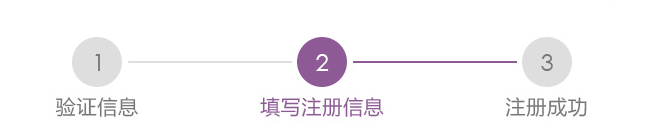
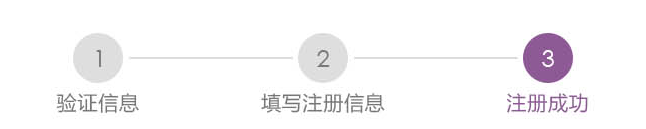
regist html

diff --git a/static/partials/regist/regist_invest_info.html b/static/partials/regist/regist_invest_info.html
@@ -1,52 +1,52 @@
-<div id="container" ng-controller="RegistStartupCtrl">
+<div id="container" ng-controller="RegistStartupInfoCtrl">
 	<div class="tab-bar">
 	    <div class="width-limited">
 	      <a href="/regist_startup"><div class="tab tab-active">我是创业者</div></a>
 	      <a href="/regist_invest_auth"><div class="tab">我是投资人</div>
 	      <img class="xiaojiao" src="static/img/index/jiao.png"></a>
 	    </div>
-	 </div>
-	 <img src="static/img/regist/start-up-1.png" id="headimg">
-	 <div class="row" id="bg_reg">
-		<div class="col-md-6" id="startup_reg">
+	  </div>
+	<div>
+	<img src="static/img/regist/invest-2.png" id="headimg">
+	<div class="row" id="bg_reg">
+		<div class="col-md-6" id="invest_reg">
 		</div>
 		<div class="col-md-6" >
-			<form class="ui form segment" ng-submit="startup_regist()" id="login">
+			<form class="ui form segment" ng-submit="login_user()" id="login">
 				<div class="form-group">  
 				    <div class="input-group">
 				      <div class="input-group-addon"><span class="glyphicon glyphicon-envelope" aria-hidden="true"></span></div>
-				      <input type="text" class="form-control" id="username" placeholder="用户名" ng-model="startup_regist.username" required>
-				    </div>
-				</div>
-				<div class="form-group">  
-				    <div class="input-group">
-				      <div class="input-group-addon"><span class="glyphicon glyphicon-envelope" aria-hidden="true"></span></div>
-				      <input type="text" class="form-control" id="realname" placeholder="真实姓名" ng-model="startup_regist.realname" required>
+				      <input type="text" class="form-control" id="email" placeholder="邮箱" ng-model="invest.email" required>
 				    </div>
 				</div>
 				<div class="form-group">  
 				    <div class="input-group">
 				      <div class="input-group-addon"><span class="glyphicon glyphicon-lock" aria-hidden="true"></span></div>
-				      <input type="text" class="form-control" id="password" placeholder="密码" ng-model="startup_regist.password" required>	
+				      <input type="text" class="form-control" id="password" placeholder="真实姓名" ng-model="invest.realname" required>	
 				    </div>
 				</div>
-
 				<div class="form-group">  
 				    <div class="input-group">
 				      <div class="input-group-addon"><span class="glyphicon glyphicon-lock" aria-hidden="true"></span></div>
-				      <input type="text" class="form-control" id="password" placeholder="再次输入密码" ng-model="startup_regist.repassword" required>	
+				      <input type="text" class="form-control" id="phonenumber" placeholder="手机号" ng-model="invest.phonenumber" required>	
 				    </div>
 				</div>
-
 				<div class="form-group">  
 				    <div class="input-group">
 				      <div class="input-group-addon"><span class="glyphicon glyphicon-lock" aria-hidden="true"></span></div>
-				      <input type="text" class="form-control" id="password" placeholder="验证码" ng-model="startup_regist.authcode" required>	
+				      <input type="text" class="form-control" id="password" placeholder="输入密码" ng-model="invest.password" required>	
+				    </div>
+				</div>
+				<div class="form-group">  
+				    <div class="input-group">
+				      <div class="input-group-addon"><span class="glyphicon glyphicon-lock" aria-hidden="true"></span></div>
+				      <input type="text" class="form-control" id="repassword" placeholder="再次输入密码" ng-model="invest.repassword" required>	
 				    </div>
 				</div>
 				<error-message error="error"></error-message>
-	        	<input type="submit" value="注册" class="button" id="regist_button">
+	        	<input type="submit" value="验证信息" class="button" id="login_button">
 	        	<br/>
+	        	<span>已有账号？请点击</span><a href="/login">登录</a>
 	        </form>
 		</div>
 	</div>

diff --git a/static/partials/regist/regist_invest_finish.html b/static/partials/regist/regist_invest_finish.html
@@ -1,35 +1,32 @@
-<div id="container" ng-controller="RegistInvestCtrl">
+<div id="container" ng-controller="RegistStartupFinishCtrl">
 	<div class="tab-bar">
 	    <div class="width-limited">
 	      <a href="/regist_startup"><div class="tab tab-active">我是创业者</div></a>
-	      <a href="/regist_invest"><div class="tab">我是投资人</div>
+	      <a href="/regist_invest_auth"><div class="tab">我是投资人</div>
 	      <img class="xiaojiao" src="static/img/index/jiao.png"></a>
 	    </div>
 	  </div>
 	<div>
-	<img src="static/img/regist/invest-1.png" id="headimg">
+	<img src="static/img/regist/invest-3.png" id="headimg">
 	<div class="row" id="bg_reg">
-		<div class="col-md-6" id="invest_reg">
+		<div class="col-md-6" id="invest_reg_finish">
 		</div>
-		<div class="col-md-6" >
-			<form class="ui form segment" ng-submit="login_user()" id="login">
-				<div class="form-group">  
-				    <div class="input-group">
-				      <div class="input-group-addon"><span class="glyphicon glyphicon-envelope" aria-hidden="true"></span></div>
-				      <input type="text" class="form-control" id="username" placeholder="输入用户名" ng-model="login_info.username" required>
-				    </div>
-				</div>
-				<div class="form-group">  
-				    <div class="input-group">
-				      <div class="input-group-addon"><span class="glyphicon glyphicon-lock" aria-hidden="true"></span></div>
-				      <input type="text" class="form-control" id="password" placeholder="输入密码" ng-model="login_info.password" required>	
-				    </div>
-				</div>
-				<error-message error="error"></error-message>
-	        	<input type="submit" value="登录" class="button" id="login_button">
-	        	<br/>
-	        	<span>没有账号，请点击</span><a href="/regist">注册</a>
-	        </form>
+		<div class="col-md-6">
+			<div>
+				<span>
+					<img src="/static/img/regist/gou.png">	
+					<h5>恭喜你注册成功！创加祝您投资愉快</h5>
+				</span>
+				<span>
+					<img src="/static/img/regist/view.png">	
+					<a href="">查看正在融资的项目</a>					
+				</span>
+				<br/>
+				<span>
+					<img src="/static/img/regist/return.png">	
+					<a href="">返回注册前页面</a>					
+				</span>
+			</div>
 		</div>
 	</div>
 </div>

diff --git a/static/partials/regist/regist_invest_auth.html b/static/partials/regist/regist_invest_auth.html
@@ -1,8 +1,8 @@
-<div id="container" ng-controller="RegistInvestCtrl">
+<div id="container" ng-controller="RegistInvestAuthCtrl">
 	<div class="tab-bar">
 	    <div class="width-limited">
 	      <a href="/regist_startup"><div class="tab tab-active">我是创业者</div></a>
-	      <a href="/regist_invest"><div class="tab">我是投资人</div>
+	      <a href="/regist_invest_auth"><div class="tab">我是投资人</div>
 	      <img class="xiaojiao" src="static/img/index/jiao.png"></a>
 	    </div>
 	  </div>
@@ -16,19 +16,19 @@
 				<div class="form-group">  
 				    <div class="input-group">
 				      <div class="input-group-addon"><span class="glyphicon glyphicon-envelope" aria-hidden="true"></span></div>
-				      <input type="text" class="form-control" id="username" placeholder="输入用户名" ng-model="login_info.username" required>
+				      <input type="text" class="form-control" id="name" placeholder="投资机构" ng-model="invest.name" required>
 				    </div>
 				</div>
 				<div class="form-group">  
 				    <div class="input-group">
 				      <div class="input-group-addon"><span class="glyphicon glyphicon-lock" aria-hidden="true"></span></div>
-				      <input type="text" class="form-control" id="password" placeholder="输入密码" ng-model="login_info.password" required>	
+				      <input type="text" class="form-control" id="invitecode" placeholder="邀请码" ng-model="invest.invitecode" required>	
 				    </div>
 				</div>
 				<error-message error="error"></error-message>
-	        	<input type="submit" value="登录" class="button" id="login_button">
+	        	<input type="submit" value="验证信息" class="button" id="login_button">
 	        	<br/>
-	        	<span>没有账号，请点击</span><a href="/regist">注册</a>
+	        	<span>已有账号？请点击</span><a href="/login">登录</a>
 	        </form>
 		</div>
 	</div>

diff --git a/static/js/controllers.js b/static/js/controllers.js
@@ -27,12 +27,17 @@ angular.module('chuangplus.controllers', []).
     controller('RegistStartupCtrl', ['$scope', '$http', 'CsrfService', 'urls', '$filter', '$routeParams', 'UserService', function($scope, $http, $csrf, urls, $filter, $routeParams, $user){
         console.log('RegistStartupCtrl');
     }]).
-    controller('RegistStartupCtrl', ['$scope', '$http', 'CsrfService', 'urls', '$filter', '$routeParams', 'UserService', function($scope, $http, $csrf, urls, $filter, $routeParams, $user){
-        console.log('RegistStartupCtrl');
-    }]).
     controller('RegistStartupFinishCtrl', ['$scope', '$http', 'CsrfService', 'urls', '$filter', '$routeParams', 'UserService', function($scope, $http, $csrf, urls, $filter, $routeParams, $user){
         console.log('RegistStartupFinishCtrl');
-        
+    }]).
+    controller('RegistInvestAuthCtrl', ['$scope', '$http', 'CsrfService', 'urls', '$filter', '$routeParams', 'UserService', function($scope, $http, $csrf, urls, $filter, $routeParams, $user){
+        console.log('RegistInvestAuthCtrl');
+    }]).
+    controller('RegistInvestAuthCtrl', ['$scope', '$http', 'CsrfService', 'urls', '$filter', '$routeParams', 'UserService', function($scope, $http, $csrf, urls, $filter, $routeParams, $user){
+        console.log('RegistInvestAuthCtrl');
+    }]).
+    controller('RegistInvestAuthCtrl', ['$scope', '$http', 'CsrfService', 'urls', '$filter', '$routeParams', 'UserService', function($scope, $http, $csrf, urls, $filter, $routeParams, $user){
+        console.log('RegistInvestAuthCtrl');
     }]).
     controller('FinancingCtrl', ['$scope', '$http', 'CsrfService', 'urls', '$filter', '$routeParams', 'UserService', function($scope, $http, $csrf, urls, $filter, $routeParams, $user){
         console.log('FinancingCtrl');

diff --git a/static/js/app.js b/static/js/app.js
@@ -42,8 +42,9 @@ angular.module('chuangplus', [
         $routeProvider.when('/about', {templateUrl: urls.part + '/about.html', controller: 'AboutCtrl', title: 'AboutPage'});
         $routeProvider.when('/login', {templateUrl: urls.part + '/login/login.html', controller: 'LoginCtrl', title: 'LoginPage'});
         $routeProvider.when('/regist_startup', {templateUrl: urls.part + '/regist/regist_startup.html', controller: 'RegistStartupCtrl', title: 'RegistStartupPage'});
-        $routeProvider.when('/regist_invest', {templateUrl: urls.part + '/regist/regist_invest.html', controller: 'RegistInvestCtrl', title: 'RegistInvestPage'});
-        $routeProvider.when('/regist_startup_finish', {templateUrl: urls.part + '/regist/regist_startup_finish.html', controller: 'RegistStartupFinishCtrl', title: 'RegistStartupFinishPage'});
+        $routeProvider.when('/regist_invest_auth', {templateUrl: urls.part + '/regist/regist_invest_auth.html', controller: 'RegistInvestAuthCtrl', title: 'RegistInvestAuthPage'});
+        $routeProvider.when('/regist_invest_info', {templateUrl: urls.part + '/regist/regist_invest_info.html', controller: 'RegistStartupInfoCtrl', title: 'RegistStartupInfoPage'});
+        $routeProvider.when('/regist_invest_finish', {templateUrl: urls.part + '/regist/regist_invest_finish.html', controller: 'RegistStartupFinishCtrl', title: 'RegistStartupFinishPage'});
 
         $routeProvider.otherwise({redirectTo: '/'});
     }]).

diff --git a/static/css/base.css b/static/css/base.css
@@ -689,3 +689,11 @@ body > #wrap {
   margin-top: 68px;
   margin-left: 72px;
 }
+#container #bg_reg #invest_reg_finish {
+  background-image: url(../img/regist/vc.png);
+  background-repeat: no-repeat;
+  height: 100%;
+  width: 25%;
+  margin-top: 68px;
+  margin-left: 22%;
+}

diff --git a/static/less/regist.less b/static/less/regist.less
@@ -30,8 +30,13 @@
 			margin-top:68px;
 			margin-left:72px;
 		}
-
+		#invest_reg_finish{
+			background-image: url(../img/regist/vc.png);
+			background-repeat: no-repeat;
+			height:100%;
+			width:25%;
+			margin-top:68px;
+			margin-left:22%;
+		}
 	}
-	
-
 }
